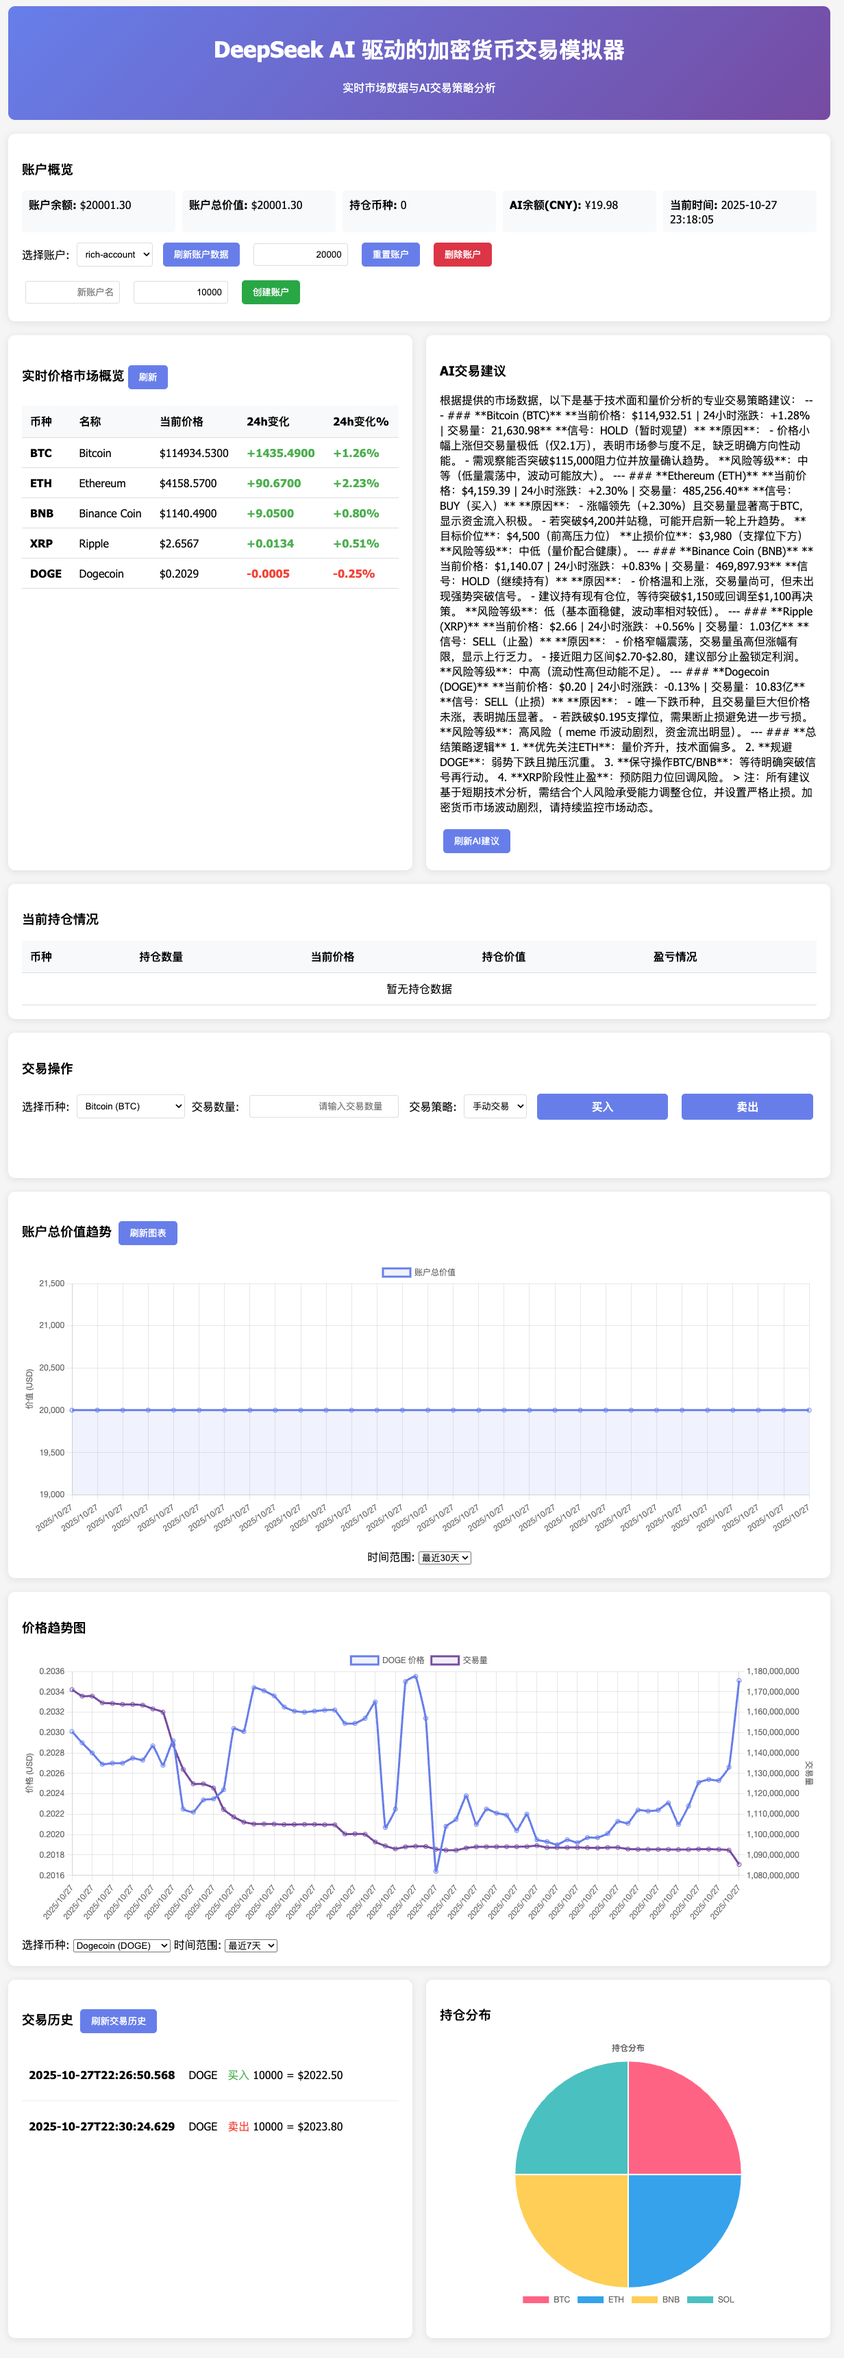
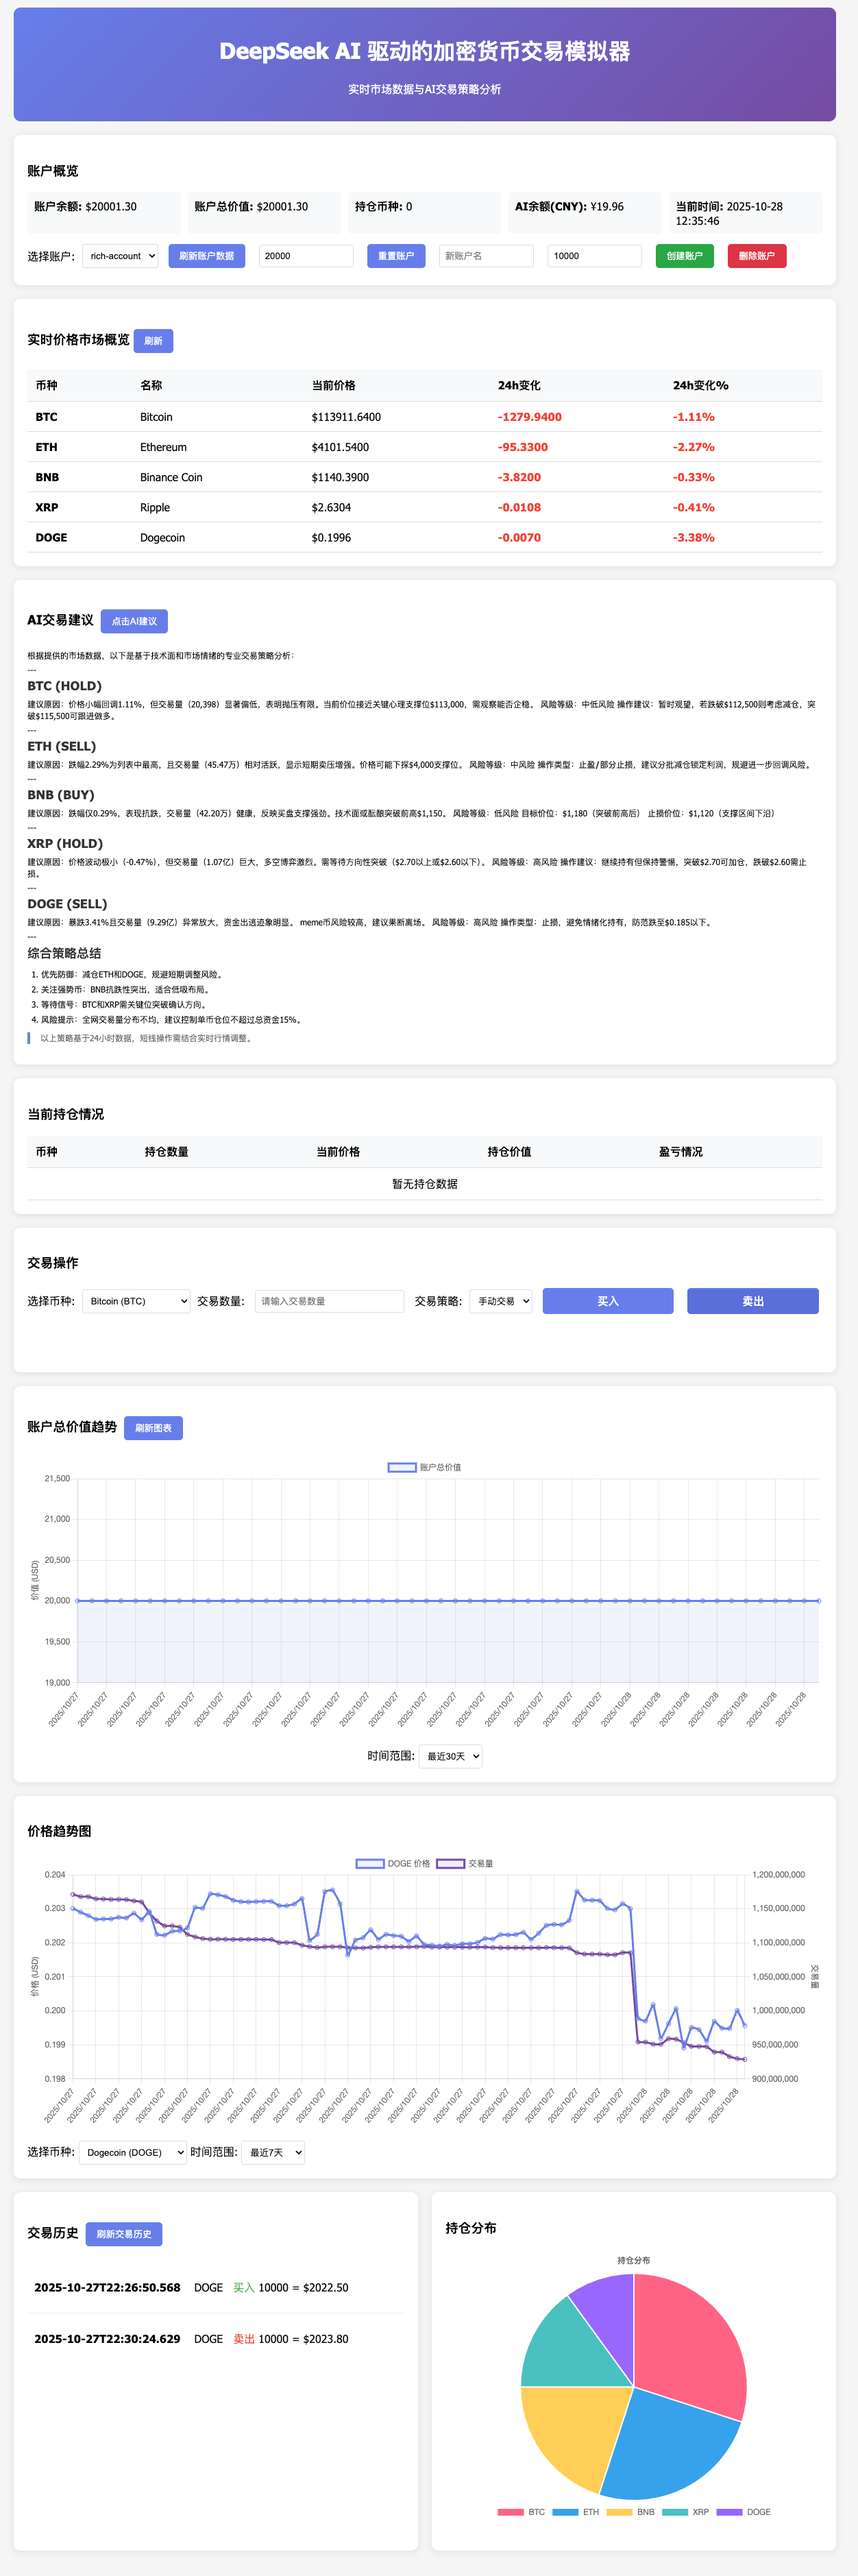
改了一下样式

diff --git a/src/main/resources/templates/index.html b/src/main/resources/templates/index.html
@@ -248,13 +248,13 @@
         
         /* Markdown渲染样式 */
         .markdown-content {
-            line-height: 1.6;
-            font-size: 14px;
+            line-height: inherit;
+            font-size: 12px;
         }
         
         .markdown-content h1 {
             font-size: 24px;
-            margin: 20px 0 10px 0;
+            margin: 5px 0 10px 0;
             color: #333;
             border-bottom: 2px solid #667eea;
             padding-bottom: 5px;
@@ -262,7 +262,7 @@
         
         .markdown-content h2 {
             font-size: 20px;
-            margin: 18px 0 9px 0;
+            margin: 5px 0 9px 0;
             color: #444;
             border-bottom: 1px solid #ccc;
             padding-bottom: 3px;
@@ -270,24 +270,26 @@
         
         .markdown-content h3 {
             font-size: 18px;
-            margin: 16px 0 8px 0;
+            margin: 5px 0 8px 0;
             color: #555;
         }
         
         .markdown-content h4 {
             font-size: 16px;
-            margin: 14px 0 7px 0;
+            margin: 5px 0 7px 0;
             color: #666;
         }
         
         .markdown-content h5 {
             font-size: 15px;
-            margin: 12px 0 6px 0;
+            margin: 5px 0 6px 0;
             color: #777;
         }
-        
+        .markdown-content br {
+            display:none;
+        }
         .markdown-content p {
-            margin: 10px 0;
+            margin: 5px 0;
             text-align: justify;
         }
         
@@ -435,23 +437,19 @@
             </div>
         </div>
 
-        <div class="grid">
-            <div class="card">
+        <div class="card">
                 <h3>实时价格市场概览<button class="btn" onclick="refreshMarketData()">刷新</button></h3>
                 <div id="marketOverview">
                     <!-- 市场数据将在此处动态生成 -->
                 </div>
-            </div>
-
-            <div class="card">
-                <h3>AI交易建议 <button class="btn" onclick="refreshAIRecommendations()">刷新AI建议</button></h3>
+        </div>
+         <div class="card">
+                <h3>AI交易建议 <button class="btn" onclick="refreshAIRecommendations()">点击AI建议</button></h3>
                 <div id="aiRecommendations">
                     <p>AI交易建议功能</p>
-                    <p>当前显示的是默认消息。</p>
+                    <p>无，点击Deepseek Ai 给意见</p>
                 </div>
-                
-            </div>
-        </div>
+       </div>
 
         <div class="card">
             <h3>当前持仓情况</h3>

diff --git a/src/main/java/com/noodle/app/trade/service/DeepSeekAiService.java b/src/main/java/com/noodle/app/trade/service/DeepSeekAiService.java
@@ -5,6 +5,8 @@ import com.fasterxml.jackson.databind.ObjectMapper;
 import com.fasterxml.jackson.databind.node.ArrayNode;
 import com.fasterxml.jackson.databind.node.ObjectNode;
 import com.noodle.app.trade.model.CryptoCurrency;
+
+import lombok.extern.slf4j.Slf4j;
 import okhttp3.*;
 import org.springframework.beans.factory.annotation.Value;
 import org.springframework.stereotype.Service;
@@ -15,6 +17,7 @@ import java.util.List;
 import java.util.Map;
 import java.util.concurrent.TimeUnit;
 
+@Slf4j
 @Service
 public class DeepSeekAiService {
     
@@ -125,8 +128,9 @@ public class DeepSeekAiService {
         try (Response response = client.newCall(request).execute()) {
             if (response.isSuccessful() && response.body() != null) {
                 String jsonData = response.body().string();
+                 log.info("DeepSeek AI回复: " + jsonData);
                 JsonNode jsonResponse = objectMapper.readTree(jsonData);
-                
+               
                 // 解析AI的回复
                 JsonNode choices = jsonResponse.get("choices");
                 if (choices != null && choices.size() > 0) {
